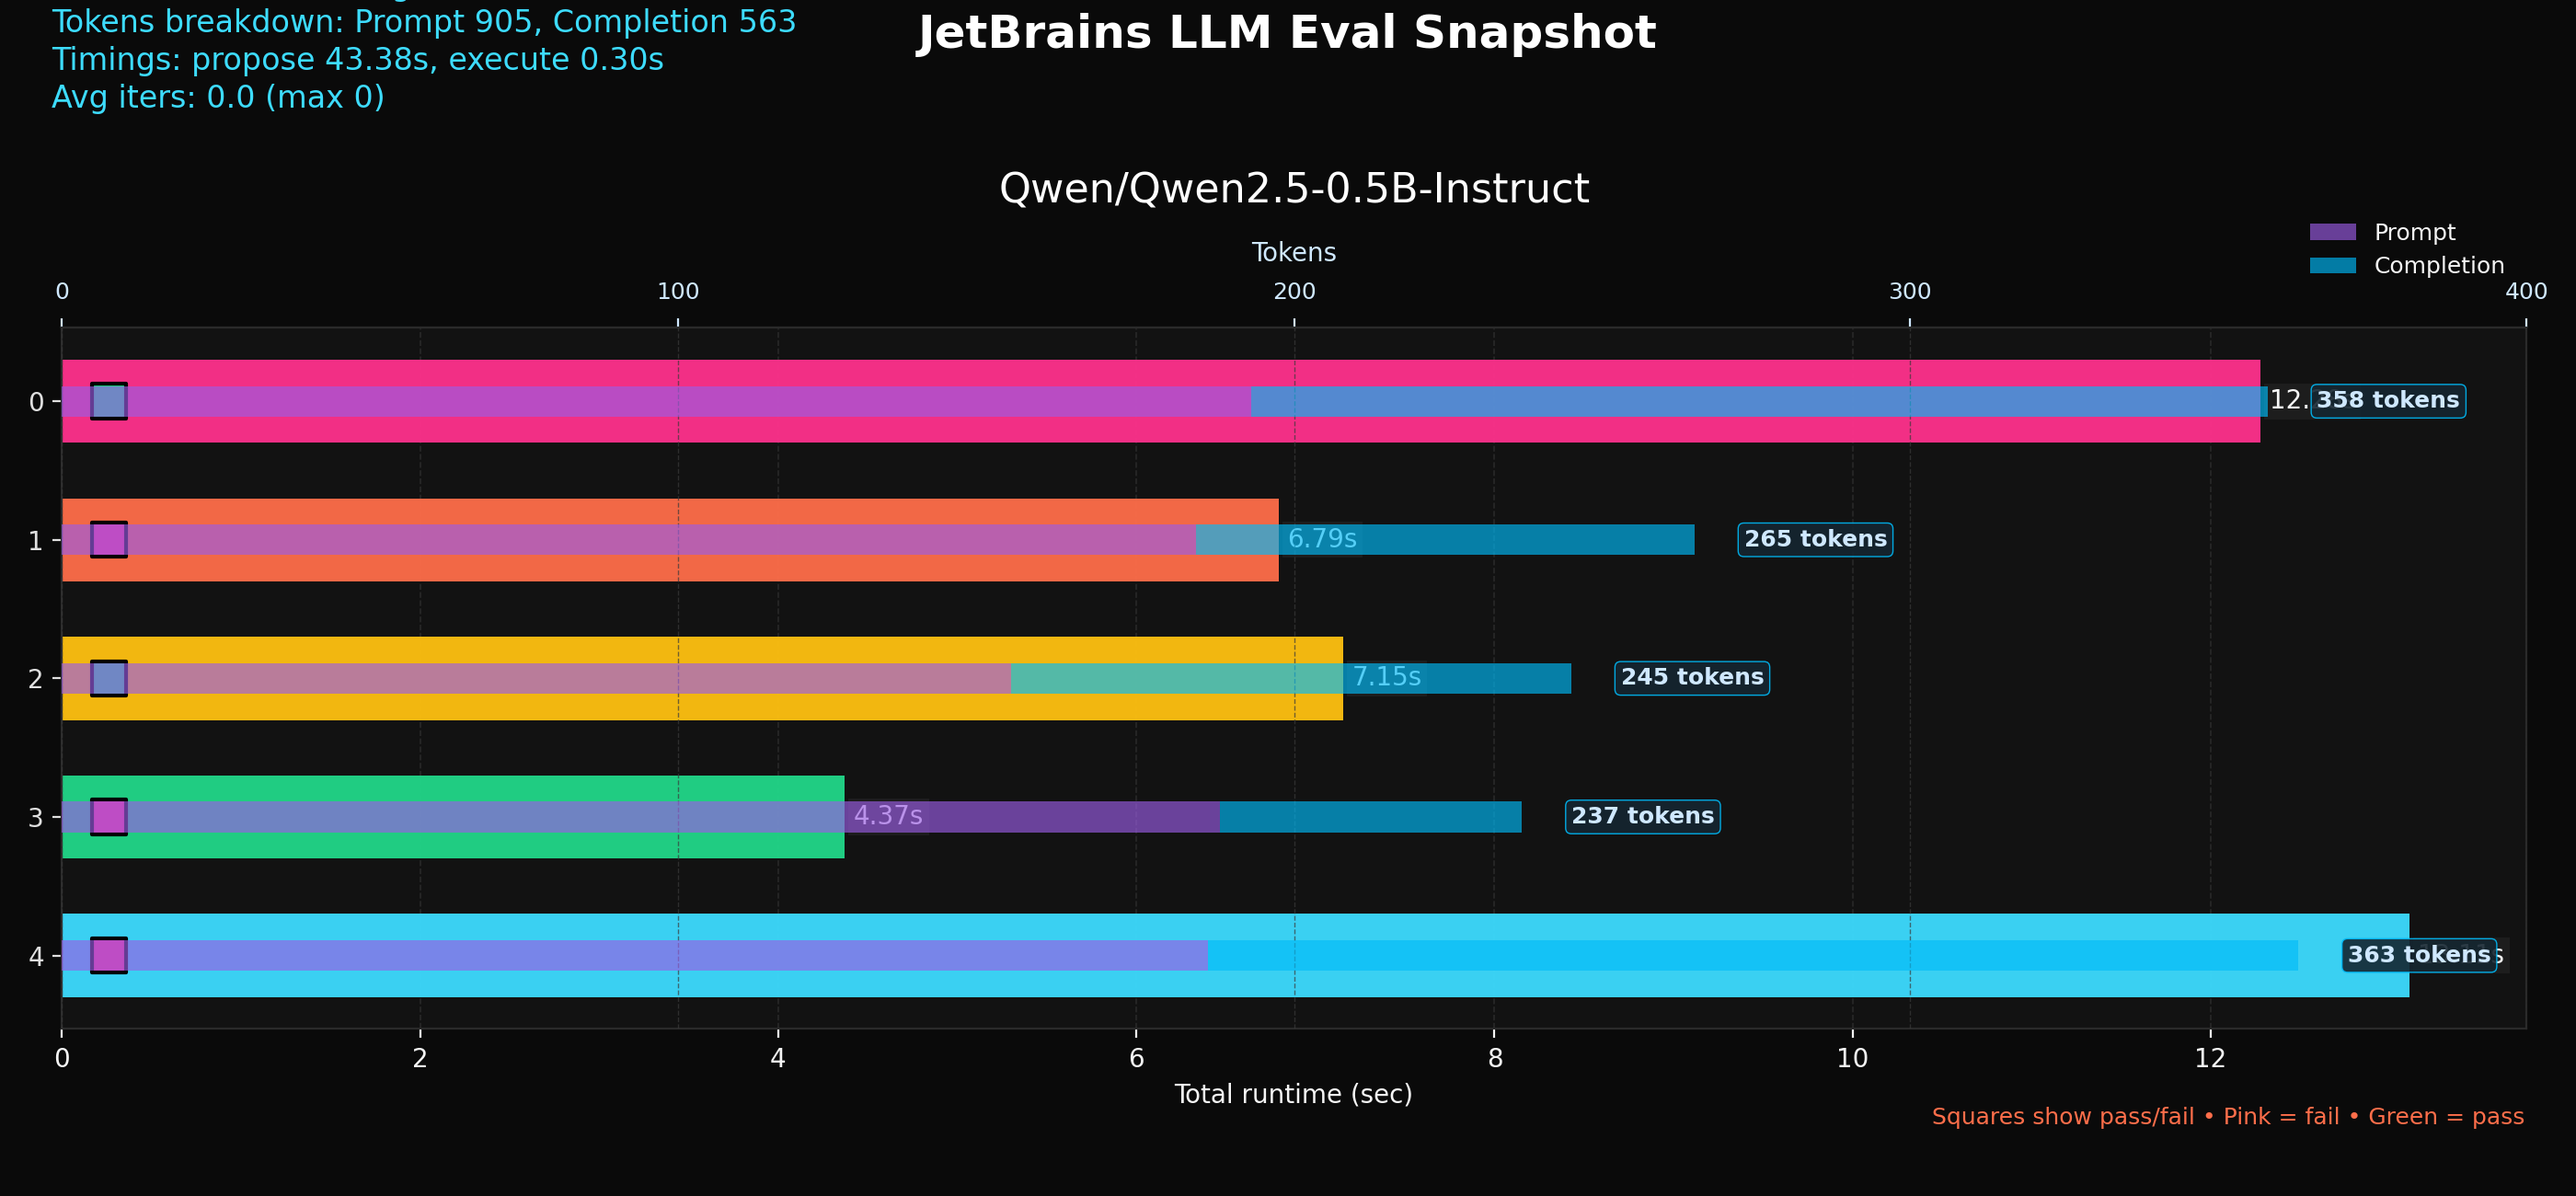
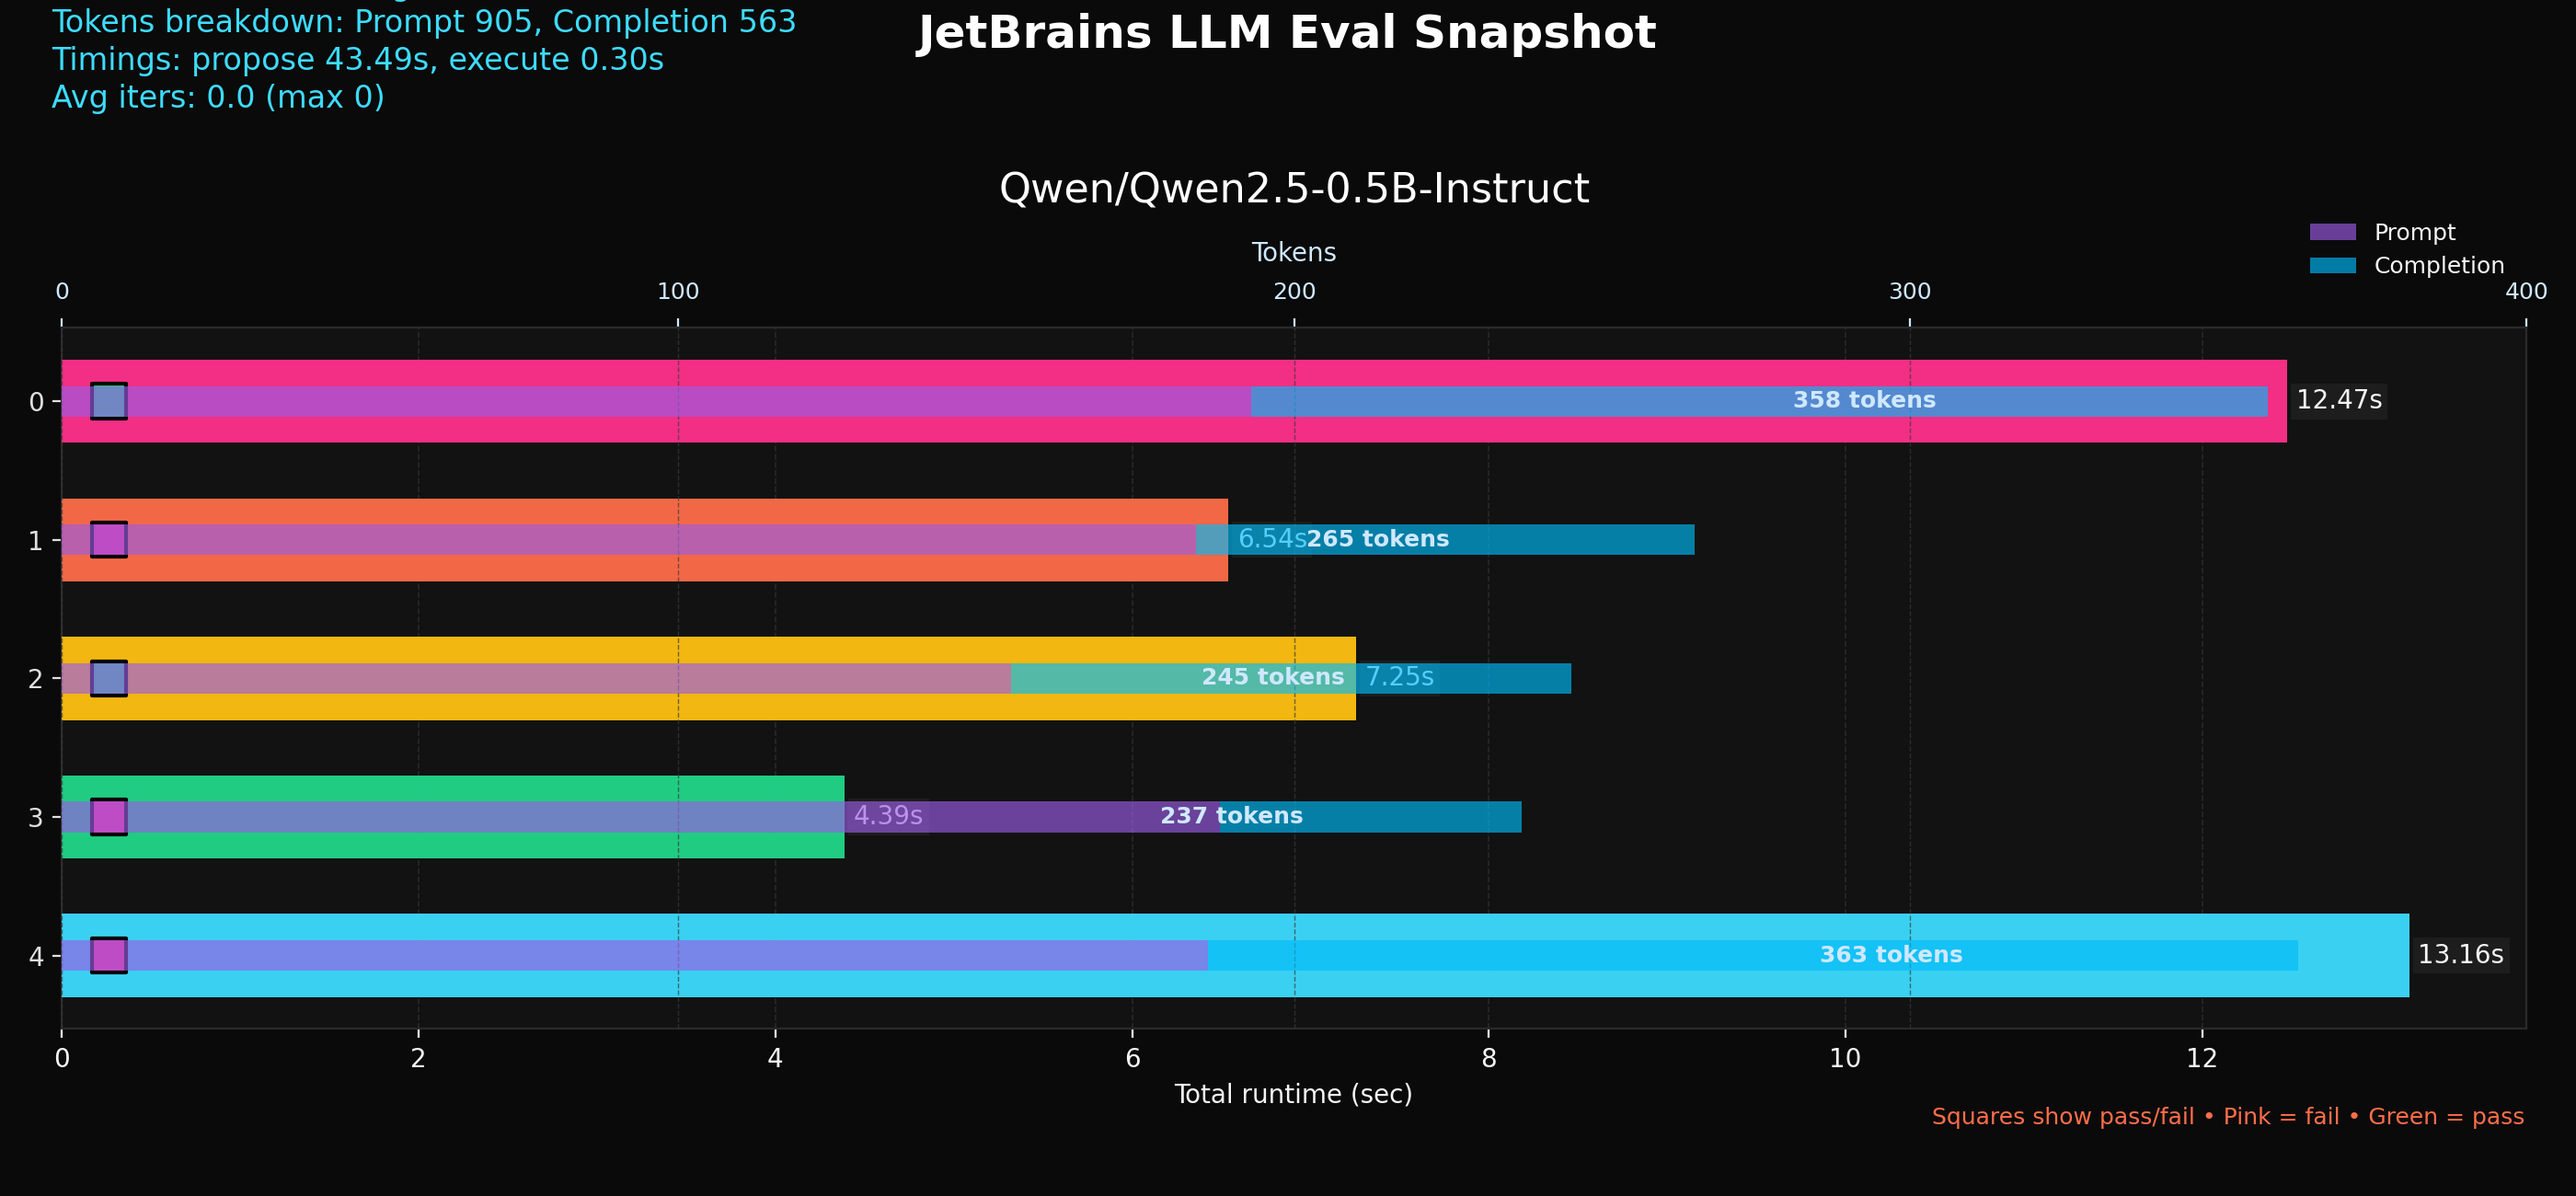
update token annotation color for clarity

diff --git a/src/visualize_results.py b/src/visualize_results.py
@@ -186,7 +186,7 @@ def plot_results(
     runtime_max = max(runtime) if runtime else 1.0
     if runtime_max <= 0:
         runtime_max = 1.0
-    token_ratio = 0.45
+    token_ratio = 0.20
     token_axis_target = runtime_max * token_ratio if runtime_max else 1.0
     token_step = select_token_step(max_tokens_actual)
     nice_max_tokens = (
@@ -227,6 +227,8 @@ def plot_results(
         cumulative_scaled = [
             cum + scaled for cum, scaled in zip(cumulative_scaled, series_scaled)
         ]
+
+    scaled_totals = cumulative_scaled[:]
 
     if token_scale < 1.0:
         token_axis_limit = token_axis_target
@@ -351,24 +353,20 @@ def plot_results(
         for idx_task, total_tokens in enumerate(task_token_totals):
             if total_tokens <= 0:
                 continue
-            scaled_total = total_tokens * token_scale
-            x_pos = min(scaled_total + axis_limit * 0.02, axis_limit * 0.98)
+            scaled_total = scaled_totals[idx_task]
+            if scaled_total <= 0:
+                continue
+            inset_offset = max(axis_limit * 0.03, scaled_total * 0.15)
+            x_pos = max(scaled_total - inset_offset, scaled_total * 0.55)
             ax_tokens.text(
                 x_pos,
                 idx_task,
                 format_token_annotation(total_tokens),
                 va="center",
-                ha="left",
-                color="#CFE8FF",
+                ha="right",
+                color="#0B0B0B",
                 fontsize=9,
                 fontweight="bold",
-                bbox={
-                    "facecolor": "#152631",
-                    "alpha": 0.9,
-                    "edgecolor": "#00BBF9",
-                    "linewidth": 0.5,
-                    "boxstyle": "round,pad=0.25",
-                },
                 zorder=8,
             )
 
